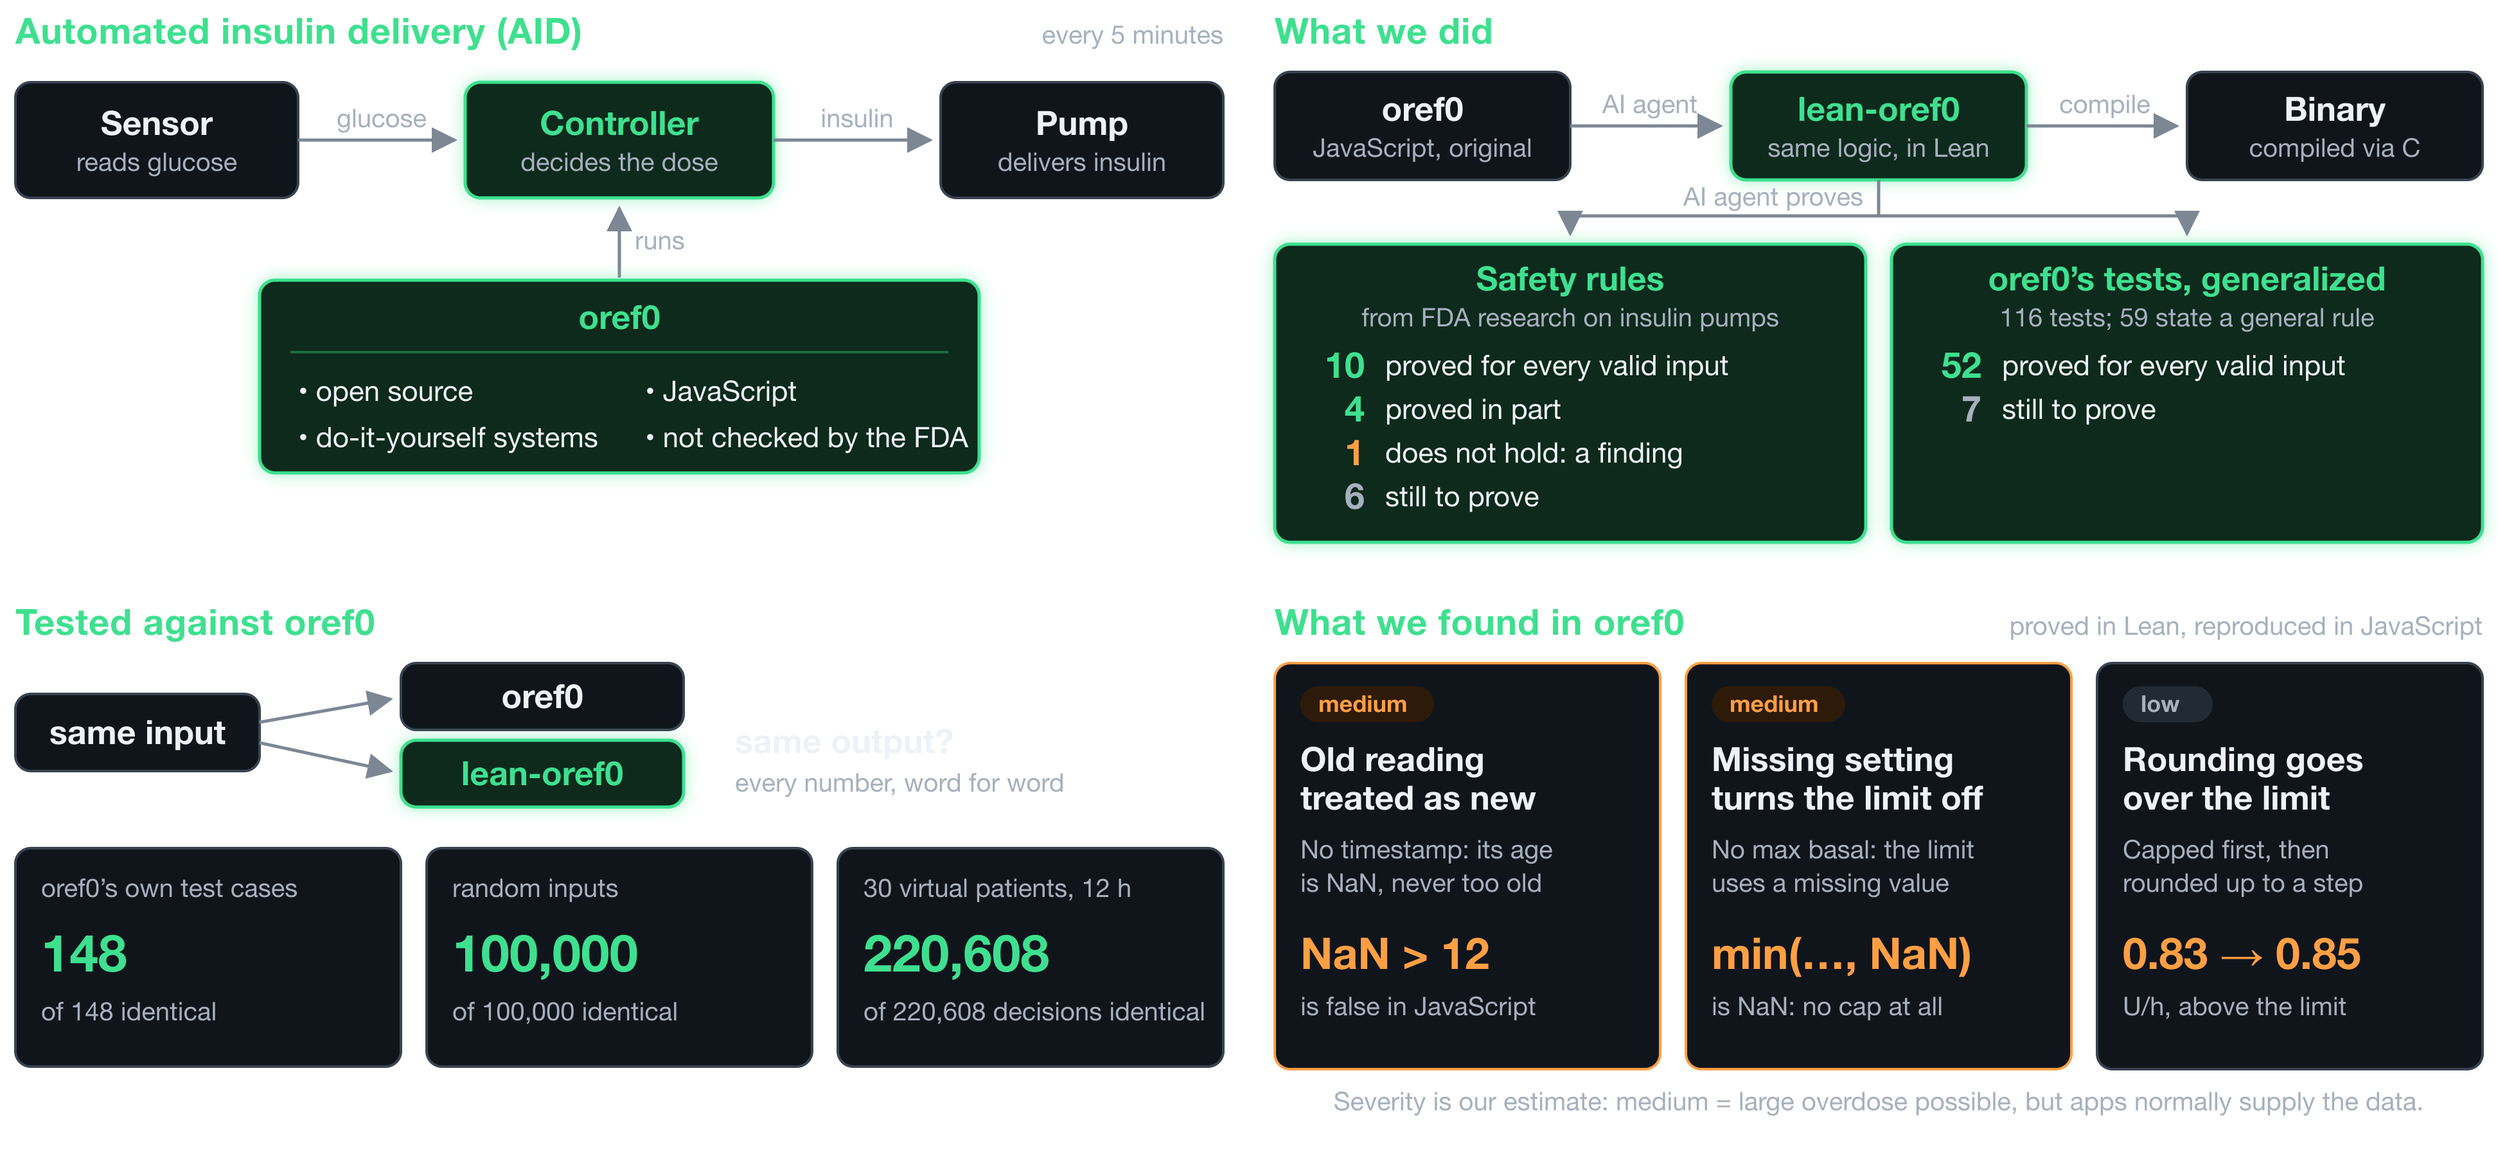
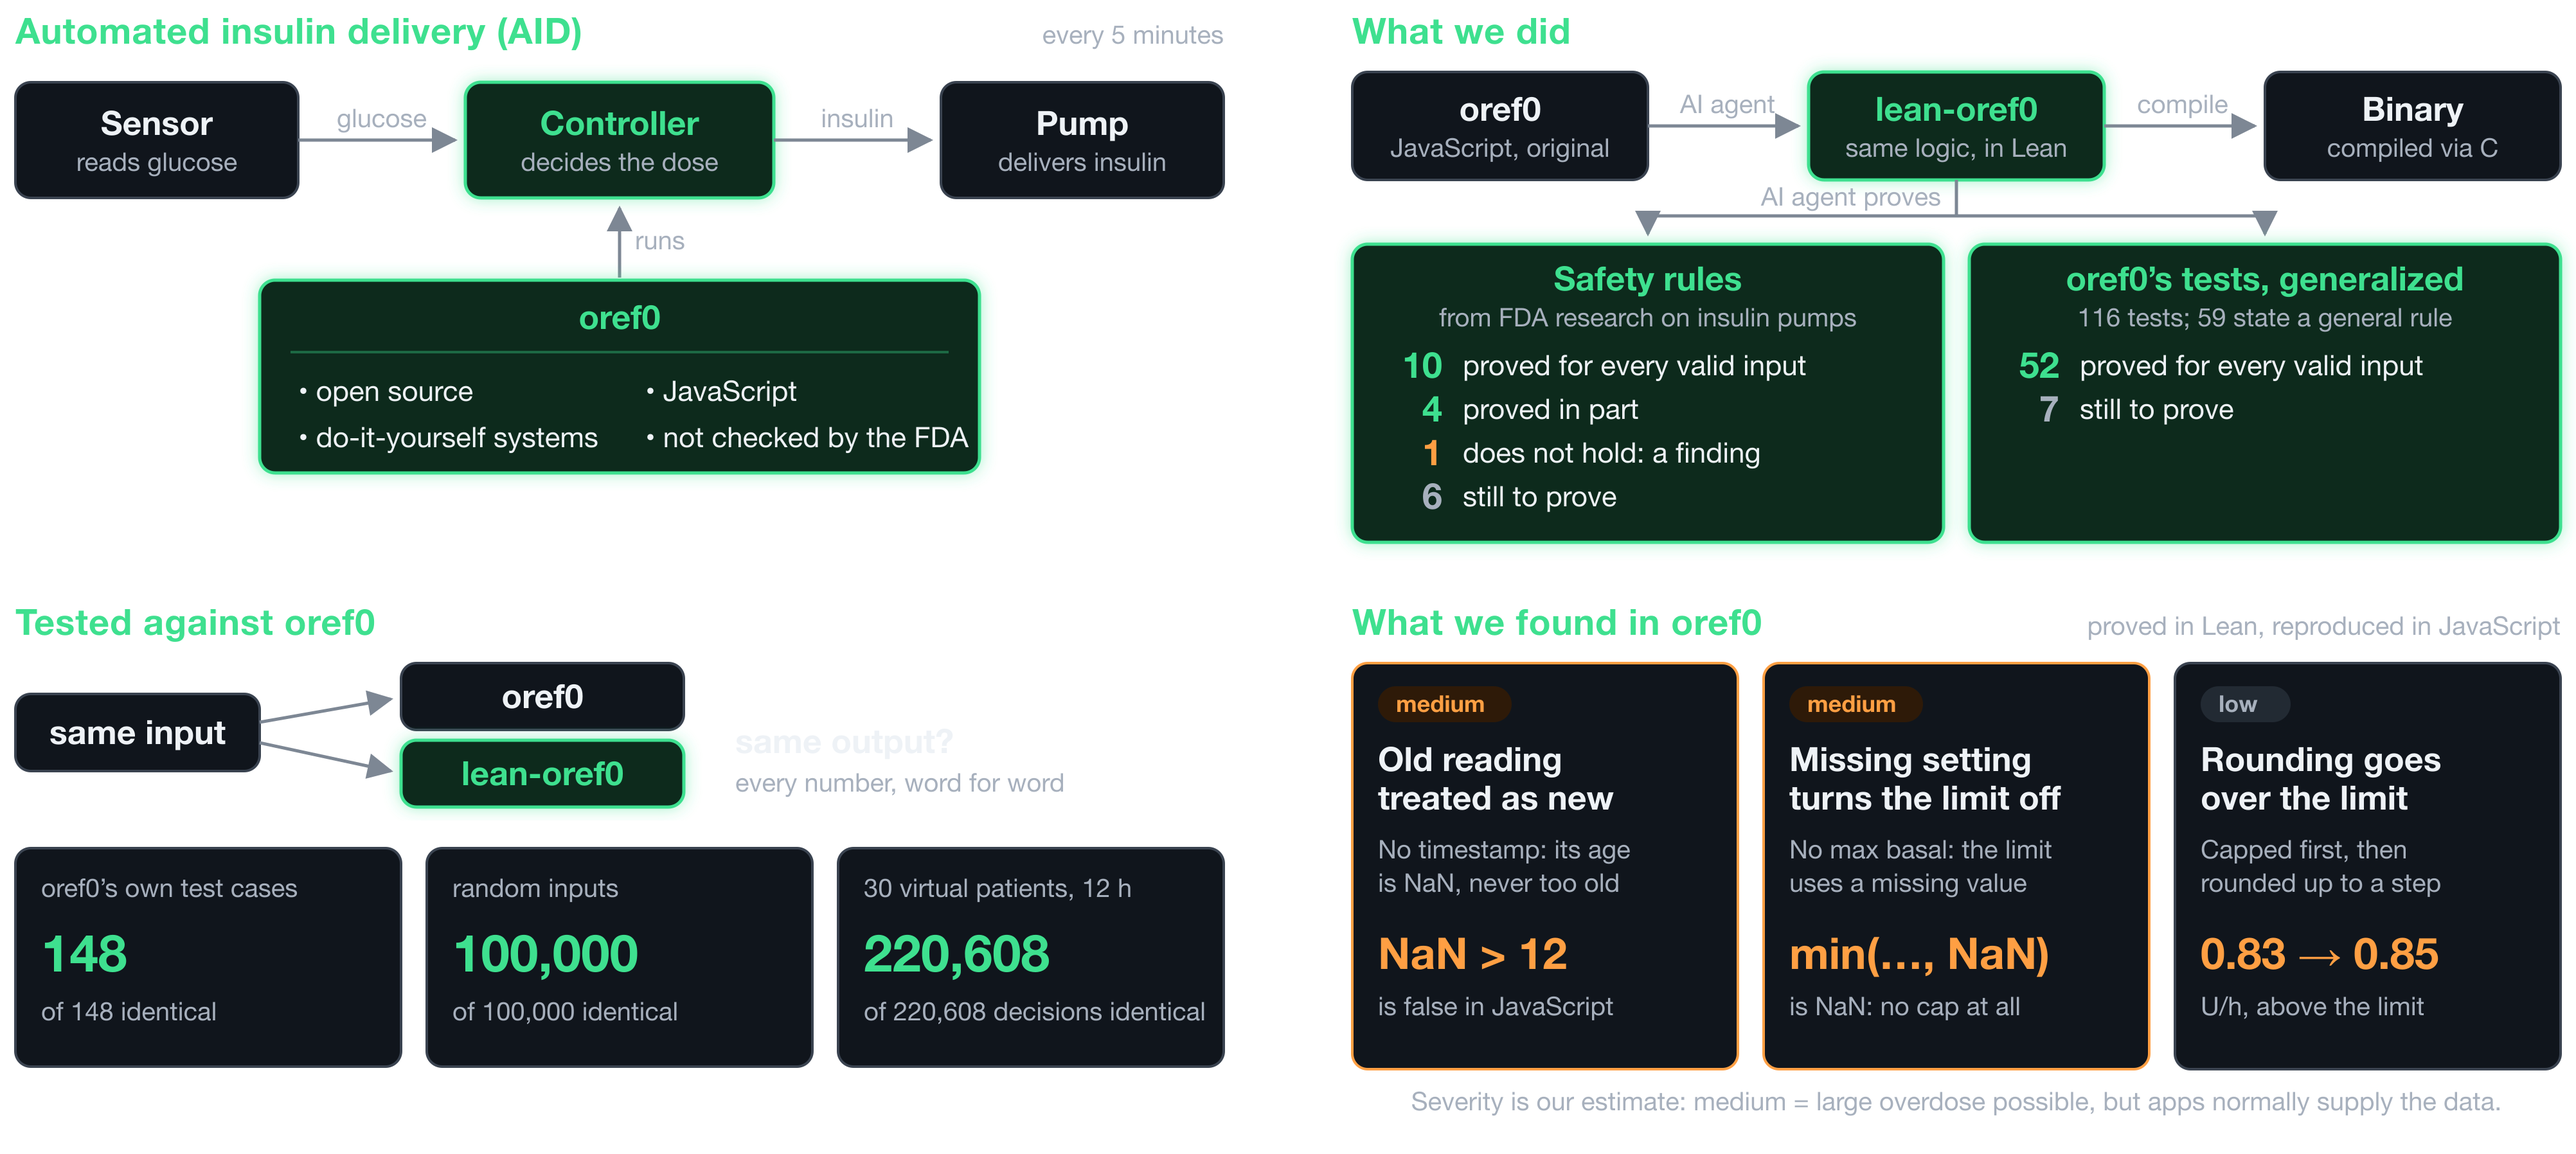
Compact slide: wider gap between the two columns

diff --git a/site/img/make_compact.py b/site/img/make_compact.py
@@ -195,14 +195,14 @@ def main():
         render(name, content)
     # composite: 2 x 2 grid, 1920 x 880
     import re
-    cells = [(0, 0), (980, 0), (0, 460), (980, 460)]
+    cells = [(0, 0), (1040, 0), (0, 460), (1040, 460)]
     inner = ""
     defs_done = False
     for (x, y), content in zip(cells, parts.values()):
         m = re.search(r'viewBox="0 0 (\d+) (\d+)"', content)
         body = content[content.index("</style>") + len("</style>"):content.rindex("</svg>")]
         inner += f'<g transform="translate({x} {y})">{body}</g>\n'
-    allsvg = (f'<svg xmlns="http://www.w3.org/2000/svg" viewBox="-12 -4 1944 898" width="1944" height="898" '
+    allsvg = (f'<svg xmlns="http://www.w3.org/2000/svg" viewBox="-12 -4 2004 898" width="2004" height="898" '
               f'role="img" aria-label="LeanAID in four diagrams">{STYLE}\n{inner}</svg>\n')
     render("all", allsvg)
     print("wrote", ", ".join(list(parts) + ["all"]))
